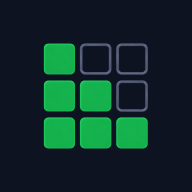
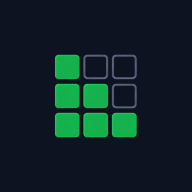
fix(pwa): respect iOS safe-area insets

Changed region(s): [[0.2188, 0.2188, 0.7812, 0.7812]]

diff --git a/src/features/rooms/game/RoomChatDrawer.tsx b/src/features/rooms/game/RoomChatDrawer.tsx
@@ -177,7 +177,11 @@ export function RoomChatDrawer({
                 </Stack>
               )}
             </Drawer.Body>
-            <Drawer.Footer borderTopWidth="1px" borderColor="border.divider">
+            <Drawer.Footer
+              borderTopWidth="1px"
+              borderColor="border.divider"
+              pb="calc(1rem + env(safe-area-inset-bottom, 0px))"
+            >
               <Stack gap={2} w="full">
                 <HStack gap={2} flexWrap="wrap">
                   {ROOM_MESSAGE_PRESETS.map((preset) => (

diff --git a/src/features/admin/rooms/RoomDetailsDrawer.tsx b/src/features/admin/rooms/RoomDetailsDrawer.tsx
@@ -99,7 +99,8 @@ export function RoomDetailsDrawer(props: { room: AdminRoomDto | null; onClose: (
                 </Drawer.Body>
                 <Drawer.Footer
                   px={{ base: 4, md: 6 }}
-                  py={3}
+                  pt={3}
+                  pb="calc(0.75rem + env(safe-area-inset-bottom, 0px))"
                   borderTopWidth="1px"
                   borderColor="border.divider"
                   alignItems={{ base: 'stretch', sm: 'center' }}

diff --git a/src/app/layout/AppLayout.tsx b/src/app/layout/AppLayout.tsx
@@ -18,7 +18,11 @@ export function AppLayout() {
     >
       <Box aria-hidden className="background-letters" />
       <Navbar />
-      <Box as="main" flex="1" pb={{ base: '3rem', md: 0 }}>
+      <Box
+        as="main"
+        flex="1"
+        pb={{ base: 'calc(3rem + env(safe-area-inset-bottom, 0px))', md: 0 }}
+      >
         <Container maxW={isWide ? { md: '80rem' } : { md: '50rem' }} py={4} px={4}>
           <Outlet />
         </Container>

diff --git a/src/app/layout/navbar/profile/ProfilePopover.tsx b/src/app/layout/navbar/profile/ProfilePopover.tsx
@@ -154,7 +154,7 @@ export function ProfilePopover({
               <Drawer.Header>
                 <Drawer.Title asChild>{profileHeader}</Drawer.Title>
               </Drawer.Header>
-              <Drawer.Body pb={0}>{profileContent}</Drawer.Body>
+              <Drawer.Body pb="env(safe-area-inset-bottom, 0px)">{profileContent}</Drawer.Body>
             </Drawer.Content>
           </Drawer.Positioner>
         </Portal>
